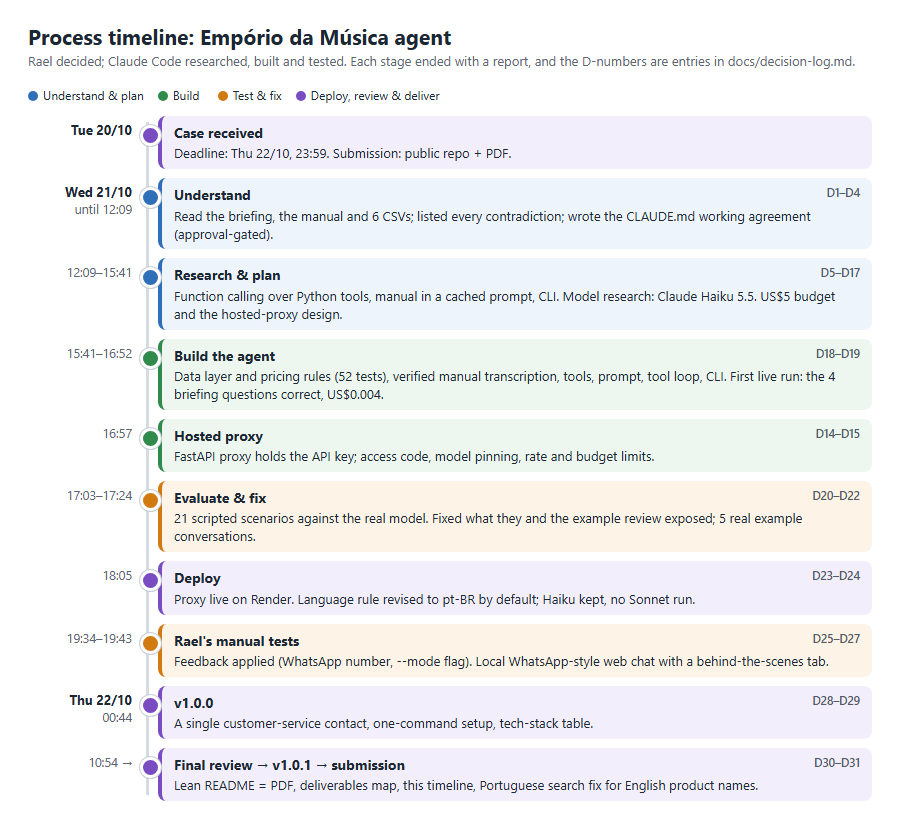
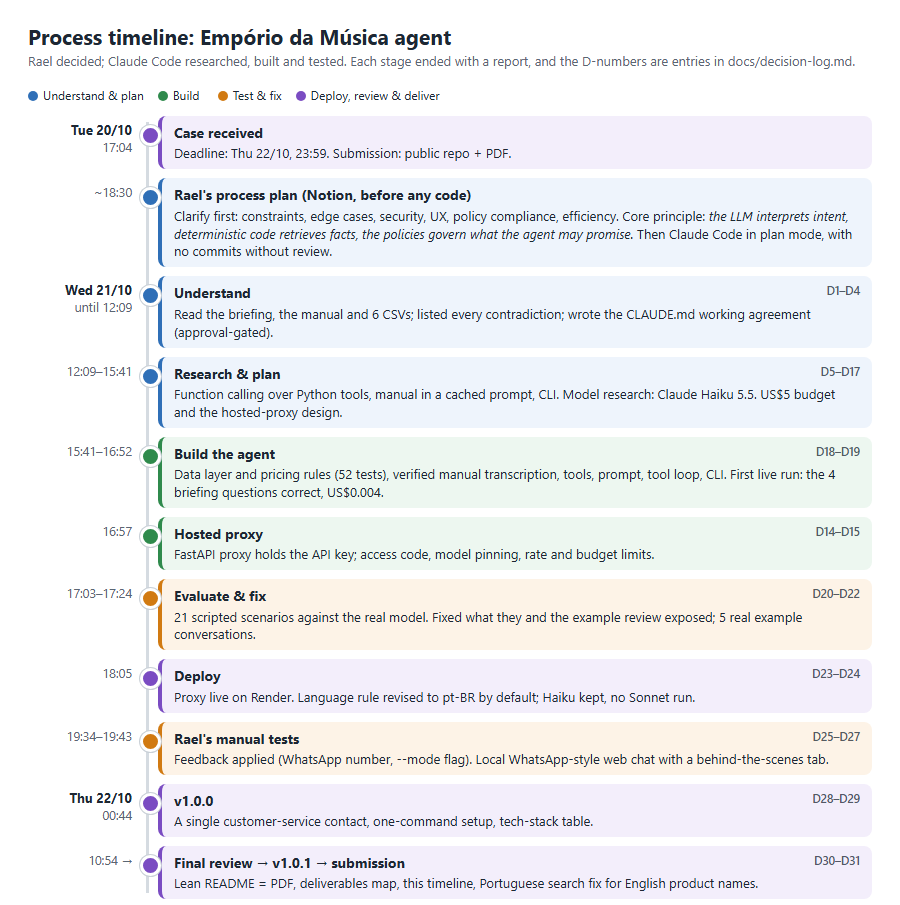
Release 1.0.2: clearer install steps, timeline starts with Rael's Notion plan
- Quick start: run every command inside the cloned folder; explains the
  "requirements.txt not found" error; Download-ZIP route without git
  (steps re-verified in cmd from a fresh clone)
- Timeline: e-mail received 20/10 17:04, Rael's process plan ~18:30 whose
  core principle became the architecture; same line in "How I used AI"

diff --git a/scripts/timeline.html b/scripts/timeline.html
@@ -1,7 +1,7 @@
 <!doctype html>
 <!-- Source of docs/img/timeline.png. Render with headless Chrome:
-     chrome --headless=new --hide-scrollbars --window-size=900,815 --screenshot=timeline.png timeline.html
-     Times are the commit times in the repository's history (Brasília time). -->
+     chrome --headless=new --hide-scrollbars --window-size=900,905 --screenshot=timeline.png timeline.html
+     Times are Brasília time: the e-mail's timestamp, Rael's Notion notes, then commit times. -->
 <html lang="en">
 <head>
 <meta charset="utf-8">
@@ -34,8 +34,10 @@
   <span><i class="eval-dot"></i>Test &amp; fix</span><span><i class="ship-dot"></i>Deploy, review &amp; deliver</span>
 </div>
 <div class="line">
-  <div class="item"><div class="when"><b>Tue 20/10</b></div><div class="dot ship-dot"></div>
+  <div class="item"><div class="when"><b>Tue 20/10</b>17:04</div><div class="dot ship-dot"></div>
     <div class="card ship"><h3>Case received</h3>Deadline: Thu 22/10, 23:59. Submission: public repo + PDF.</div></div>
+  <div class="item"><div class="when">~18:30</div><div class="dot plan-dot"></div>
+    <div class="card plan"><h3>Rael's process plan (Notion, before any code)</h3>Clarify first: constraints, edge cases, security, UX, policy compliance, efficiency. Core principle: <i>the LLM interprets intent, deterministic code retrieves facts, the policies govern what the agent may promise.</i> Then Claude Code in plan mode, with no commits without review.</div></div>
   <div class="item"><div class="when"><b>Wed 21/10</b>until 12:09</div><div class="dot plan-dot"></div>
     <div class="card plan"><span class="d">D1–D4</span><h3>Understand</h3>Read the briefing, the manual and 6 CSVs; listed every contradiction; wrote the CLAUDE.md working agreement (approval-gated).</div></div>
   <div class="item"><div class="when">12:09–15:41</div><div class="dot plan-dot"></div>

diff --git a/README.md b/README.md
@@ -27,8 +27,10 @@ You need Python 3.11+ (developed on 3.14). Two ways to run it, both using the sa
   budget.
 - **B. Your own Anthropic API key (direct mode):** the agent calls Anthropic directly.
 
-The commands below work in both Windows terminals, **Command Prompt (cmd)** and **PowerShell**,
-from any folder you choose:
+The commands below work in both Windows terminals, **Command Prompt (cmd)** and **PowerShell**.
+Run them one after another in the same window. **After `cd`, every command must run inside the
+`emporio-da-musica-agent` folder**; if you see "No such file: requirements.txt", you're in the
+wrong folder.
 ```
 git clone https://github.com/rael-peixoto/emporio-da-musica-agent.git
 cd emporio-da-musica-agent
@@ -37,6 +39,8 @@ python -m venv .venv
 .venv\Scripts\python -m emporio.setup                         # paste the access code (option A)
 .venv\Scripts\python -m emporio.web                           # opens the chat in your browser
 ```
+- **No git?** On the GitHub page, click **Code → Download ZIP**, extract it, open a terminal
+  in the extracted folder, and start from `python -m venv .venv`.
 - **`emporio.setup`** saves the code to `.env`; your typing is hidden. For option B, use
   `emporio.setup --api-key`.
 - **Terminal chat instead of the browser:** `.venv\Scripts\python -m emporio` (add `--debug` to
@@ -224,8 +228,12 @@ Full safeguards table: [technical details](docs/technical-details.md#3-security-
 - A local model (e.g. via Ollama) as a zero-cost option; retrieval if the manual grows.
 
 ## 8. How I used AI (Claude Code)
-I worked with **Claude Code** (Anthropic's coding assistant) under a written working agreement,
-[`CLAUDE.md`](CLAUDE.md): understand → research → plan → build → test → document.
+About 1.5 hours after the case arrived, before opening any tool, I wrote my process plan in
+Notion. Its core principle became the architecture: **the LLM interprets the customer's intent,
+deterministic code retrieves the facts, and the policies govern what the agent may promise.**
+
+I then worked with **Claude Code** (Anthropic's coding assistant) under a written working
+agreement, [`CLAUDE.md`](CLAUDE.md): understand → research → plan → build → test → document.
 - **I made every product and technical decision.** Claude Code researched options, proposed
   plans, wrote the code and ran the tests.
 - **Approved plans** are kept in [`docs/`](docs/).

diff --git a/CHANGELOG.md b/CHANGELOG.md
@@ -3,6 +3,15 @@
 All notable changes to this project are documented here.
 Format: [Keep a Changelog](https://keepachangelog.com/en/1.1.0/).
 
+## [1.0.2] - 2026-10-22
+
+### Changed
+- Quick start: every command runs inside the cloned folder (and what the "requirements.txt
+  not found" error means); a Download-ZIP alternative for anyone without git. The README steps
+  were re-verified in Command Prompt from a fresh clone.
+- Timeline and "How I used AI" now start with Rael's process plan in Notion (20/10, about
+  18:30), whose core principle became the architecture.
+
 ## [1.0.1] - 2026-10-22
 
 ### Changed
